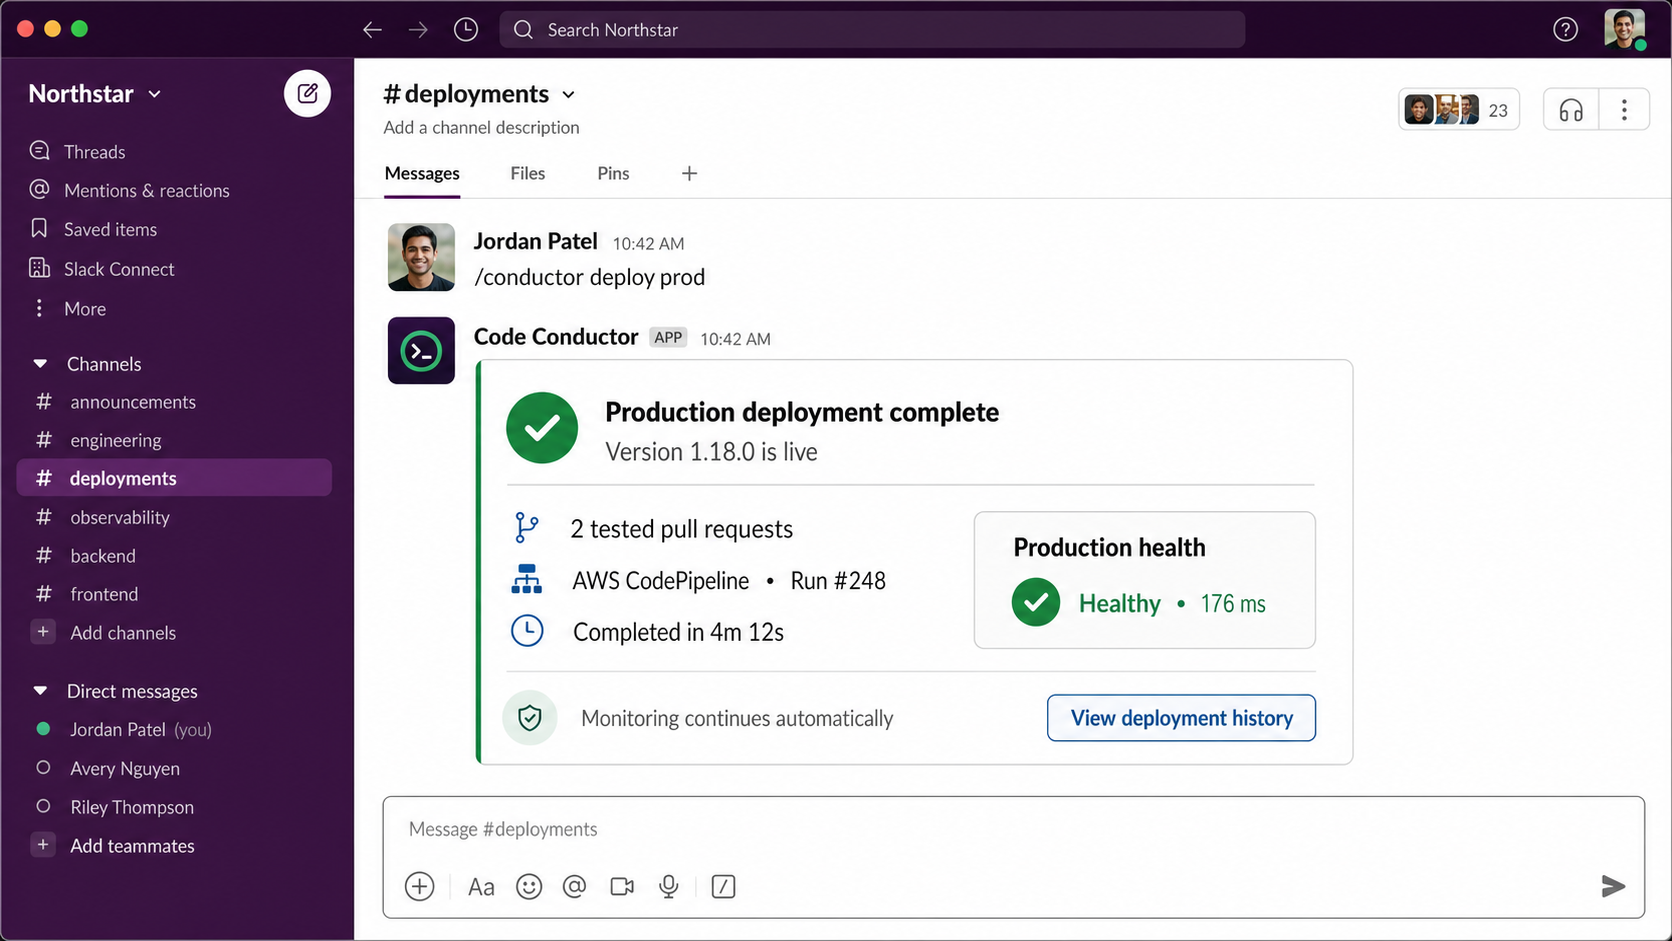
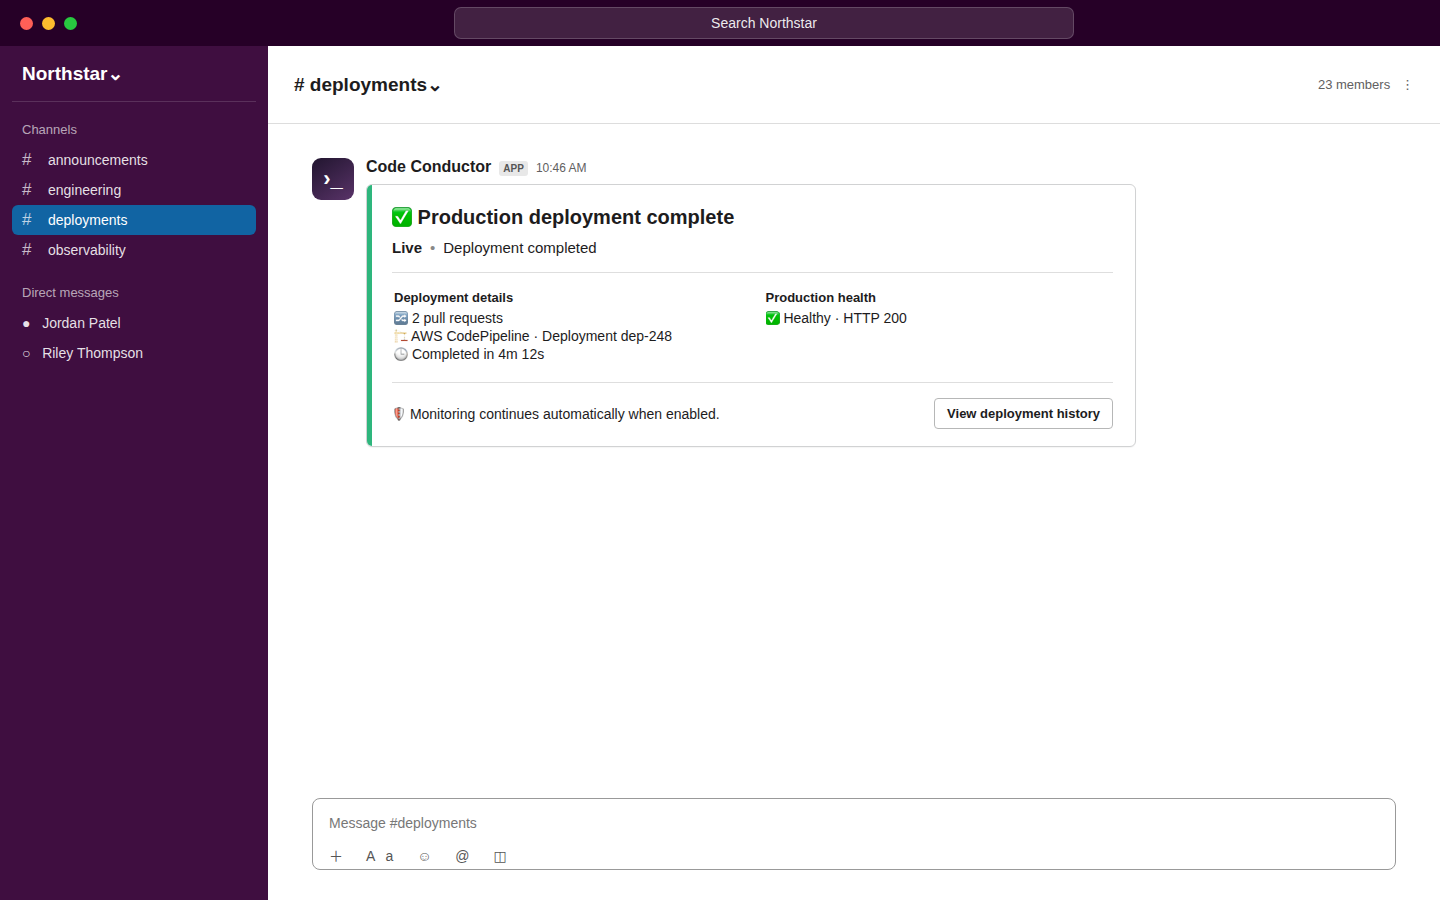
Update README with realistic Slack previews

diff --git a/README.md b/README.md
@@ -15,7 +15,7 @@ tools your team already uses.
   <img src="docs/assets/screenshots/production-readiness.png" alt="Code Conductor showing production readiness, PR test state, and application health in Slack" width="900">
 </p>
 
-<p align="center"><sub>Product preview with fictional workspace data.</sub></p>
+<p align="center"><sub>Representative Slack rendering of the current Block Kit structure with fictional workspace data.</sub></p>
 
 ## Why Code Conductor?
 
@@ -53,8 +53,9 @@ completion, records the result atomically, announces what shipped, and continues
 ![Code Conductor automated production deployment in Slack](docs/assets/screenshots/automated-deploy.png)
 
 > [!NOTE]
-> The previews above use fictional data to demonstrate the Slack experience. The repository's
-> Block Kit renderer produces the live messages from real provider and database state.
+> The screenshots mirror the fields, actions, visibility, two-column layout, and tone accents emitted
+> by the current Block Kit renderer. Slack controls final typography and spacing, while message content
+> varies with live provider and database state.
 
 ## One Workflow, Pluggable Providers
 
